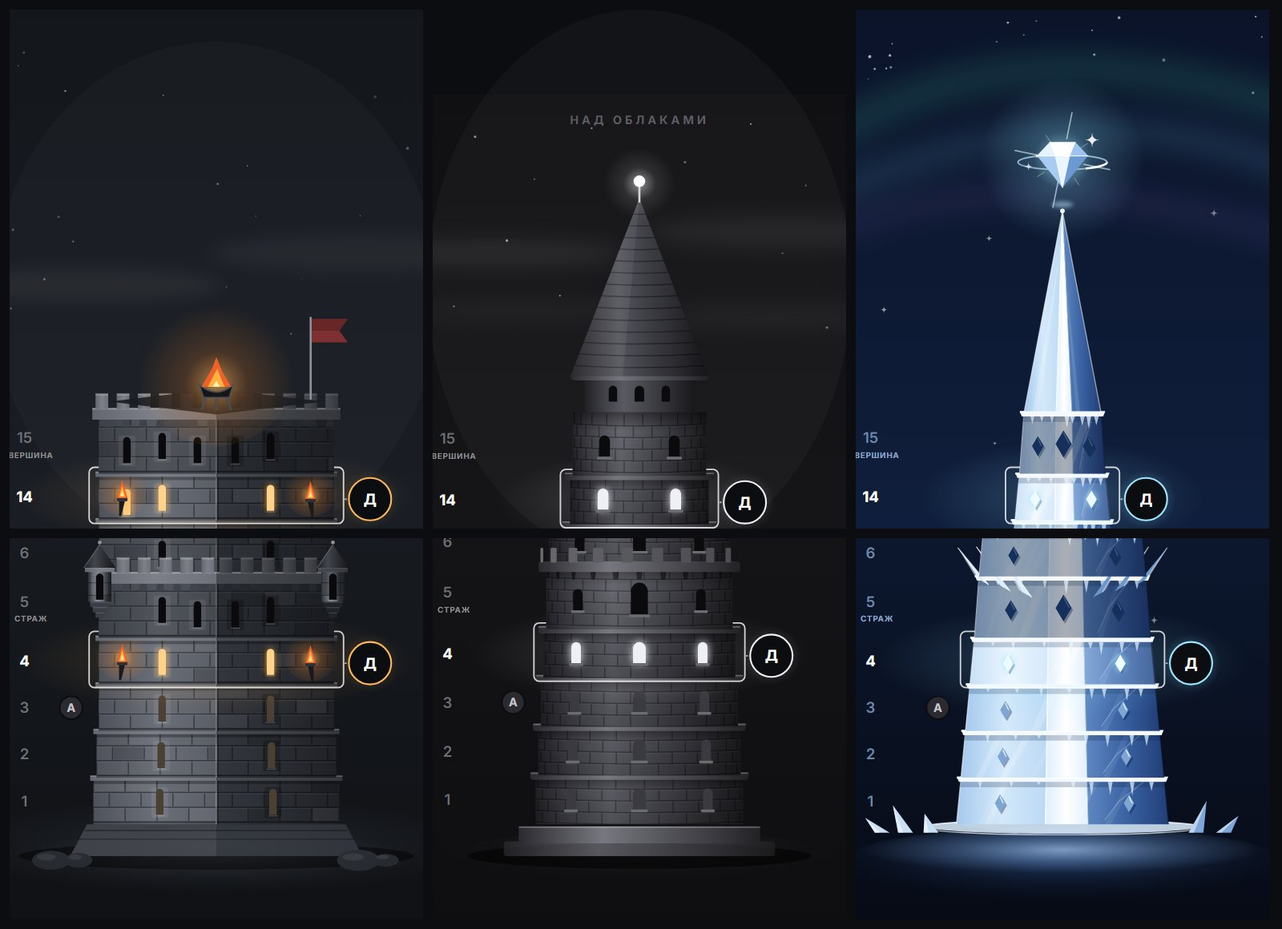
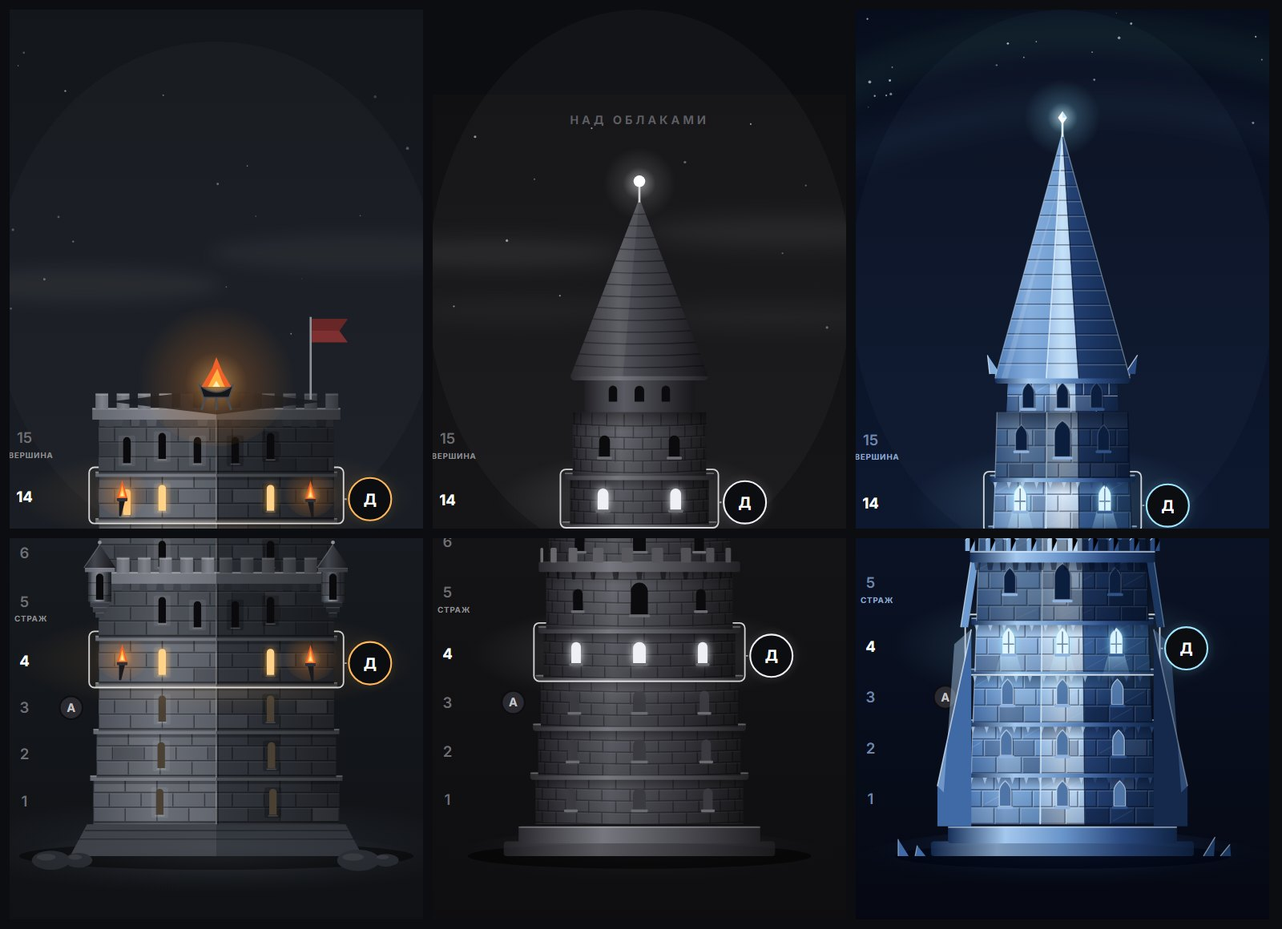
docs: spire towers v2 — Diamond rebuilt as a crystal keep (faceted masonry, glowing lancets, buttresses, prism crown + spire)
Owner verdict: Granite/Onyx accepted, ice needle rejected (flat cone, floating clipart gem). Diamond is now a real octagonal building of cut crystal: bevelled blocks with refractions and navy inner shadows, lancet windows lit from inside with light smear, crystal buttresses at the base and guard corners, prism merlons, drum with a crown of prisms and a tall faceted spire with a glowing core; taller and slimmer than Onyx. Previews re-shot.

Governance-ID: TG-F32D67F910B6

diff --git a/docs/design/v2-app/spire-leagues.html b/docs/design/v2-app/spire-leagues.html
@@ -73,7 +73,7 @@
 <body>
 <div class="page">
   <h1 class="page-h1">Башни лиг Шпиля · v2</h1>
-  <p class="page-lead">Двенадцать лиг-камней (Гранит … Алмаз). У каждой лиги — своя архитектура со своей геометрией: силуэт, материал, свет, атмосфера. Эталон качества — чёрная башня приложения, она закреплена за лигой «Оникс». Первый круг: <b>Гранит</b> (крепостной донжон), <b>Оникс</b> (эталон), <b>Алмаз</b> (ледяная игла с парящим бриллиантом). Остальные девять — после утверждения. Всё — SVG кодом, без картинок; каждая башня — параметры и набор форм поверх модели этажей (15 этажей, Страж каждые 5).</p>
+  <p class="page-lead">Двенадцать лиг-камней (Гранит … Алмаз). У каждой лиги — своя архитектура со своей геометрией: силуэт, материал, свет, атмосфера. Эталон качества — чёрная башня приложения, она закреплена за лигой «Оникс». Первый круг: <b>Гранит</b> (крепостной донжон), <b>Оникс</b> (эталон), <b>Алмаз</b> (хрустальная башня: огранённая кладка, стрельчатые окна со светом изнутри, кристаллический венец и шпиль). Остальные девять — после утверждения. Всё — SVG кодом, без картинок; каждая башня — параметры и набор форм поверх модели этажей (15 этажей, Страж каждые 5).</p>
   <div class="lg-bar">
     <div class="lg-arrow" id="prev" aria-label="Предыдущая лига">‹</div>
     <div class="lg-chips" id="chips"></div>
@@ -134,7 +134,7 @@ const LEAGUES = [
   { id: 'opal', ru: 'Опал', uk: 'Опал' },
   { id: 'topaz', ru: 'Топаз', uk: 'Топаз' },
   { id: 'obsidian', ru: 'Обсидиан', uk: 'Обсидіан' },
-  { id: 'diamond', ru: 'Алмаз', uk: 'Алмаз', arch: 'needle', ready: true, mat: 'ледяная огранённая игла: три грани с преломлениями, ярусы-кристаллы, фонари во льду, венцы шардов у Стражей, парящий бриллиант над остриём, сияние и лучи' },
+  { id: 'diamond', ru: 'Алмаз', uk: 'Алмаз', arch: 'crystal', ready: true, mat: 'хрустальная башня: восьмигранник углом к зрителю, огранённая кладка с преломлениями и тёмно-синими тенями, стрельчатые окна светятся изнутри, контрфорсы-кристаллы, зубцы-призмы у Стражей, барабан с кристаллическим венцом и высокий гранёный шпиль со светящейся сердцевиной' },
 ];
 LEAGUES.forEach((L, i) => { L.i = i; });
 const READY = LEAGUES.filter((L) => L.ready);
@@ -419,146 +419,162 @@ const CYL = {
   },
 };
 
-/* ===================== АРХЕТИП 3: ЛЕДЯНАЯ ИГЛА С ПАРЯЩИМ БРИЛЛИАНТОМ (Алмаз) ===================== */
-// зачем: высшая лига — не камень, а огранённый лёд. Силуэт — узкая игла, сужающаяся к острию (трапеции этажей сходятся в одну линию);
-// объём — три вертикальные грани (левая светлая, центральная — блик, правая в глубокой тени) с косыми преломлениями;
-// этажи — ярусы с яркими кромками льда и сосульками, фонари-ромбы во льду; Стражи — венцы шардов; над остриём парит бриллиант с кольцом и лучами.
-const NEEDLE = {
+/* ===================== АРХЕТИП 3: ХРУСТАЛЬНАЯ БАШНЯ (Алмаз) ===================== */
+// зачем (вердикт владельца 13.10 через координатора): первая «ледяная игла» — плоский конус с наклейками и клипарт-бриллиантом. Нужно ЗДАНИЕ,
+// как Гранит и Оникс (кладка, ярусы, окна, навершие), но из алмаза: огранённые блоки с преломлениями и глубиной, тёмно-синие внутренние тени
+// и холодные блики (не белая заливка), окна светятся изнутри, контрфорсы-кристаллы, навершие — кристаллический венец и шпиль, вписанные в архитектуру.
+// Силуэт выше и стройнее Оникса (вершина прогрессии), той же весомости: восьмигранник углом к зрителю — три видимые грани.
+const CRYST = {
   pal: {
-    sky: ['#0A1226', '#10203F', '#060A14'], accent: '#9FE6FF', num: '#FFFFFF', numDim: '#6F86A8', lab: '#8FA6C8',
-    edge: 'rgba(255,255,255,.72)', win: { lit: '#EAFBFF', past: '#7FA6D2', dark: '#15305C', glow: '#8FE4FF' },
-    shardL: '#DCEEFF', shardR: '#6B96CC', ledge: '#F3F9FF',
+    sky: ['#070C1A', '#0E1A33', '#050812'], accent: '#9FE6FF', num: '#FFFFFF', numDim: '#6F86A8', lab: '#8FA6C8',
+    win: { lit: '#DFF6FF', past: '#4F74A6', dark: '#0C1E3E', glow: '#8FE4FF' },
   },
-  taper: 8.5,
+  w0: 176, taper: 3.5, fh: 48, gh: 62,
   geom() {
-    const w0 = 200, fh = 44, gh = 58, topPad = 440, basePad = 110; let h = 0;
-    for (let f = 1; f <= FLOORS; f++) h += isGuard(f) ? gh : fh;
+    const topPad = 430, basePad = 100; let h = 0;
+    for (let f = 1; f <= FLOORS; f++) h += isGuard(f) ? this.gh : this.fh;
     const H = topPad + h + basePad; let yb = H - basePad; const floors = [];
-    for (let f = 1; f <= FLOORS; f++) { const hh = isGuard(f) ? gh : fh; const w = w0 - (f - 1) * this.taper, wt = w - this.taper; yb -= hh; floors.push({ f, y: yb, h: hh, w, wt, x0: CX - w / 2, xt0: CX - wt / 2 }); }
-    const top = floors[FLOORS - 1].y;
-    return { floors, H, base: H - basePad, top, apex: top - 190 };
+    for (let f = 1; f <= FLOORS; f++) { const hh = isGuard(f) ? this.gh : this.fh; const w = this.w0 - (f - 1) * this.taper, wt = w - this.taper; yb -= hh; floors.push({ f, y: yb, h: hh, w, wt, x0: CX - w / 2, xt0: CX - wt / 2 }); }
+    return { floors, H, base: H - basePad, top: floors[FLOORS - 1].y };
   },
   fx: (fl, k, top) => (top ? fl.xt0 + fl.wt * k : fl.x0 + fl.w * k),
-  facet(fl, k0, k1, fill, extra = '') { const yb = fl.y + fl.h; return poly([[this.fx(fl, k0, false), yb], [this.fx(fl, k1, false), yb], [this.fx(fl, k1, true), fl.y], [this.fx(fl, k0, true), fl.y]], fill, extra); },
+  fxm(fl, k) { return (this.fx(fl, k, false) + this.fx(fl, k, true)) / 2; },
+  facetPts(fl, k0, k1) { const yb = fl.y + fl.h; return [[this.fx(fl, k0, false), yb], [this.fx(fl, k1, false), yb], [this.fx(fl, k1, true), fl.y], [this.fx(fl, k0, true), fl.y]]; },
+  facet(fl, k0, k1, fill, extra = '') { return poly(this.facetPts(fl, k0, k1), fill, extra); },
   defs(p) {
     const lin = (id, cols, x2 = '1', y2 = '0') => `<linearGradient id="${p}${id}" x1="0" y1="0" x2="${x2}" y2="${y2}">${cols.map((c, i) => stp(c, i / (cols.length - 1))).join('')}</linearGradient>`;
-    return lin('L', ['#A6C9EE', '#D4E9FA', '#BBD9F4']) + lin('C', ['#DDEFFF', '#FFFFFF', '#E2F0FF']) + lin('R', ['#5E88C2', '#3A61A1', '#213F78'])
-      + lin('Lm', ['#C4DEF6', '#EAF5FF', '#D2E7FA']) + lin('Rm', ['#7CA3D6', '#527BB8', '#365A95'])
+    return lin('L', ['#4F7CB8', '#86AEDD', '#6F9CD0']) + lin('C', ['#9CC0E8', '#C6DDF5', '#A9CBEE']) + lin('R', ['#27457A', '#1A3460', '#122646'])
+      + lin('Lm', ['#6E9AD0', '#A6C8EC', '#8DB4E2']) + lin('Cm', ['#B9D5F2', '#DCEBFA', '#C4DCF4']) + lin('Rm', ['#365A96', '#27477E', '#1C375F'])
+      + lin('corn', ['#17305A', '#A4C8EE', '#6A95CA', '#2B4B82', '#102444']) + lin('spire', ['#24427A', '#86AEDD', '#C6DDF5', '#5F8BC4', '#17305A'])
       + lin('sky', this.pal.sky, '0', '1')
-      + `<radialGradient id="${p}glow" cx=".5" cy=".5" r=".5">${stp('#BFF0FF', 0, 0.75)}${stp('#8FE4FF', 0.35, 0.22)}${stp('#8FE4FF', 1, 0)}</radialGradient>`
-      + `<radialGradient id="${p}halo" cx=".5" cy=".5" r=".5">${stp('#8FE4FF', 0, 0.22)}${stp('#8FE4FF', 1, 0)}</radialGradient>`
-      + `<radialGradient id="${p}ground" cx=".5" cy=".25" r=".5">${stp('#2C4B7E', 0)}${stp('#0B1426', 1, 0)}</radialGradient>`
-      + `<radialGradient id="${p}ice" cx=".5" cy=".5" r=".5">${stp('#BFDCF7', 0, 0.55)}${stp('#7FA9DC', 0.6, 0.22)}${stp('#7FA9DC', 1, 0)}</radialGradient>`
-      + `<filter id="${p}wg" x="-150%" y="-150%" width="400%" height="400%"><feGaussianBlur stdDeviation="3.4"/></filter><filter id="${p}bl" x="-40%" y="-40%" width="180%" height="180%"><feGaussianBlur stdDeviation="12"/></filter><filter id="${p}bl2" x="-40%" y="-40%" width="180%" height="180%"><feGaussianBlur stdDeviation="2.2"/></filter>`;
+      + `<linearGradient id="${p}under" x1="0" y1="0" x2="0" y2="1">${stp('#040B1E', 0, 0.5)}${stp('#040B1E', 0.3, 0)}${stp('#040B1E', 1, 0.18)}</linearGradient>`
+      + `<linearGradient id="${p}smear" x1="0" y1="0" x2="0" y2="1">${stp('#BFEAFF', 0, 0.45)}${stp('#BFEAFF', 1, 0)}</linearGradient>`
+      + `<linearGradient id="${p}core" x1="0" y1="0" x2="0" y2="1">${stp('#DFF6FF', 0, 0.9)}${stp('#8FE4FF', 1, 0.05)}</linearGradient>`
+      + `<radialGradient id="${p}glow" cx=".5" cy=".5" r=".5">${stp('#DFF6FF', 0, 0.7)}${stp('#8FE4FF', 0.4, 0.18)}${stp('#8FE4FF', 1, 0)}</radialGradient>`
+      + `<radialGradient id="${p}litfloor" cx=".5" cy=".5" r=".5">${stp('#8FE4FF', 0, 0.2)}${stp('#8FE4FF', 1, 0)}</radialGradient>`
+      + `<radialGradient id="${p}ground" cx=".5" cy=".2" r=".5">${stp('#1A2F58', 0)}${stp('#070C1A', 1, 0)}</radialGradient>`
+      + `<filter id="${p}wg" x="-150%" y="-150%" width="400%" height="400%"><feGaussianBlur stdDeviation="3.6"/></filter><filter id="${p}bl" x="-40%" y="-40%" width="180%" height="180%"><feGaussianBlur stdDeviation="12"/></filter><filter id="${p}bl2" x="-40%" y="-40%" width="180%" height="180%"><feGaussianBlur stdDeviation="3"/></filter>`;
   },
-  streaks(fl, seed, clip) {
-    const rd = rnd(seed); let out = ''; const yb = fl.y + fl.h;
-    for (let i = 0; i < 3; i++) { const k = 0.05 + rd() * 0.5; const x = this.fx(fl, k, false), xt = this.fx(fl, k, true) + 14 + rd() * 10; const ww = 4 + rd() * 5; out += poly([[x, yb], [x + ww, yb], [xt + ww, fl.y], [xt, fl.y]], `rgba(255,255,255,${f1(0.1 + rd() * 0.14)})`); }
-    out += poly([[this.fx(fl, 0.7, false), yb], [this.fx(fl, 0.73, false), yb], [this.fx(fl, 0.86, true), fl.y], [this.fx(fl, 0.83, true), fl.y]], 'rgba(255,255,255,.08)');
-    return `<g clip-path="url(#${clip})">${out}</g>`;
+  // огранённая кладка грани: курсы 16 px, блоки 24 px со смещением; у каждого блока светлая кромка сверху-слева и тёмная снизу-справа (огранка),
+  // часть блоков — преломление (светлее) или внутренняя тень (темнее). Три пути на грань, а не три на блок.
+  blocks(fl, k0, k1, seed, clip, side) {
+    const rd = rnd(seed); const { y, h } = fl;
+    const xa = Math.min(this.fx(fl, k0, false), this.fx(fl, k0, true)) - 24, xb = Math.max(this.fx(fl, k1, false), this.fx(fl, k1, true)) + 24;
+    const hl = side > 0 ? 0.16 : side < 0 ? 0.34 : 0.5, dk = side > 0 ? 0.55 : 0.4;
+    let pl = '', pd = '', pr = '', tint = ''; const ch = 16, bw = 24; let row = 0;
+    for (let yy = y; yy < y + h - 2; yy += ch, row++) {
+      const hh = Math.min(ch, y + h - yy); const off = (row % 2) * (bw / 2);
+      for (let xx = xa + off; xx < xb; xx += bw) {
+        pl += `M${f1(xx + 0.6)} ${f1(yy + hh - 0.6)}V${f1(yy + 0.6)}H${f1(xx + bw - 0.6)}`;
+        pd += `M${f1(xx + bw - 0.6)} ${f1(yy + 0.6)}V${f1(yy + hh - 0.6)}H${f1(xx + 0.6)}`;
+        const r = rd();
+        if (r < 0.16) tint += `<rect x="${f1(xx + 1)}" y="${f1(yy + 1)}" width="${bw - 2}" height="${f1(hh - 2)}" fill="rgba(215,238,255,${side > 0 ? 0.1 : 0.22})"/>`;
+        else if (r > 0.86) tint += `<rect x="${f1(xx + 1)}" y="${f1(yy + 1)}" width="${bw - 2}" height="${f1(hh - 2)}" fill="rgba(4,12,34,${side > 0 ? 0.32 : 0.2})"/>`;
+        if (r > 0.3 && r < 0.5) pr += `M${f1(xx + 3)} ${f1(yy + hh - 3)}L${f1(xx + bw - 3)} ${f1(yy + 3)}`;
+      }
+    }
+    return `<g clip-path="url(#${clip})">${tint}<path d="${pd}" stroke="rgba(4,12,34,${dk})" stroke-width="1.3" fill="none"/><path d="${pl}" stroke="rgba(230,244,255,${hl})" stroke-width="1" fill="none"/><path d="${pr}" stroke="rgba(230,244,255,${side > 0 ? 0.1 : 0.2})" stroke-width="0.9" fill="none"/></g>`;
   },
-  lantern(x, y, tone, p, s = 1) {
-    const W = this.pal.win; const w = 10 * s, h = 17 * s;
-    const d = `M${f1(x)} ${f1(y - h / 2)}L${f1(x + w / 2)} ${f1(y)}L${f1(x)} ${f1(y + h / 2)}L${f1(x - w / 2)} ${f1(y)}Z`;
-    let out = `<path d="${d}" transform="translate(1.5 2)" fill="rgba(0,20,60,.35)"/>`;
-    if (tone === 'lit') out += `<path d="${d}" fill="${W.glow}" filter="url(#${p}wg)"/>`;
+  // стрельчатое окно: светится изнутри (ореол + световой мазок по кладке под окном), тусклое у пройденных, тёмное впереди
+  lancet(x, y, tone, p, big, side) {
+    const W = this.pal.win; const w = big ? 15 : 11, h = big ? 30 : 20, hw = w / 2;
+    const d = `M${f1(x - hw)} ${f1(y + h)}V${f1(y + hw)}Q${f1(x - hw)} ${f1(y + 1)} ${f1(x)} ${f1(y - 4)}Q${f1(x + hw)} ${f1(y + 1)} ${f1(x + hw)} ${f1(y + hw)}V${f1(y + h)}Z`;
+    let out = `<path d="${d}" transform="translate(1.2 1.2)" fill="rgba(4,12,34,.5)"/>`;
+    if (tone === 'lit') out += `<path d="${d}" fill="${W.glow}" filter="url(#${p}wg)"/>${poly([[x - hw - 2, y + h], [x + hw + 2, y + h], [x + hw + 9, y + h + 26], [x - hw - 9, y + h + 26]], `url(#${p}smear)`)}`;
     out += `<path d="${d}" fill="${W[tone]}"/>`;
-    if (tone !== 'dark') out += `<path d="M${f1(x)} ${f1(y - h / 2 + 2)}L${f1(x + w / 2 - 2)} ${f1(y)}" stroke="rgba(255,255,255,.85)" stroke-width="1"/>`;
-    else out += `<path d="M${f1(x)} ${f1(y - h / 2 + 2)}L${f1(x + w / 2 - 2)} ${f1(y)}" stroke="rgba(255,255,255,.22)" stroke-width="1"/>`;
+    if (tone === 'lit') out += `<path d="M${f1(x)} ${f1(y - 1)}V${f1(y + h)}M${f1(x - hw)} ${f1(y + h * 0.55)}H${f1(x + hw)}" stroke="rgba(10,40,90,.55)" stroke-width="1.2"/>`;
+    out += `<path d="${d}" fill="none" stroke="rgba(230,244,255,${tone === 'dark' ? (side > 0 ? 0.18 : 0.3) : 0.6})" stroke-width="1"/>`;
+    out += `<rect x="${f1(x - hw - 2)}" y="${f1(y + h)}" width="${f1(w + 4)}" height="2.6" rx="1" fill="${side > 0 ? '#2F5288' : '#8FB3DE'}"/>`;
     return out;
   },
-  ledge(fl, seed) {
-    const { y, xt0, wt } = fl; const rd = rnd(seed); let out = '';
-    out += poly([[xt0 - 4, y - 1], [xt0 + wt + 4, y - 1], [xt0 + wt + 2, y + 4], [xt0 - 2, y + 4]], this.pal.ledge);
-    out += poly([[xt0 - 4, y - 1], [xt0 + wt * 0.6, y - 1], [xt0 + wt * 0.6, y + 1], [xt0 - 4, y + 1]], 'rgba(255,255,255,.9)');
-    out += poly([[xt0 - 2, y + 4], [xt0 + wt + 2, y + 4], [this.fx(fl, 1, true) + 1, y + 9], [this.fx(fl, 0, true) - 1, y + 9]], 'rgba(10,30,70,.22)');
-    for (let i = 0; i < 5; i++) { const k = 0.52 + i * 0.1 + rd() * 0.04; const x = xt0 + wt * k; const len = 5 + rd() * 9; out += poly([[x - 2.2, y + 4], [x + 2.2, y + 4], [x, y + 4 + len]], 'rgba(225,242,255,.72)'); }
-    for (let i = 0; i < 3; i++) { const k = 0.08 + i * 0.14 + rd() * 0.04; const x = xt0 + wt * k; const len = 3 + rd() * 5; out += poly([[x - 1.8, y + 4], [x + 1.8, y + 4], [x, y + 4 + len]], 'rgba(255,255,255,.55)'); }
+  cornice(fl, p) { // карниз-кольцо с огранкой и мелкими висячими кристаллами
+    const { y, xt0, wt } = fl; let out = `<rect x="${f1(xt0 - 5)}" y="${f1(y - 3)}" width="${f1(wt + 10)}" height="7" rx="2" fill="url(#${p}corn)"/><rect x="${f1(xt0 - 5)}" y="${f1(y - 3)}" width="${f1(wt + 10)}" height="1.4" rx=".7" fill="rgba(230,244,255,.55)"/>`;
+    for (let xx = xt0 - 2; xx < xt0 + wt; xx += 13) { const k = (xx - xt0) / wt; out += poly([[xx, y + 4], [xx + 4, y + 4], [xx + 2, y + 10]], k < 0.62 ? 'rgba(200,228,255,.6)' : 'rgba(40,70,120,.8)'); }
     return out;
   },
-  shardCrown(fl) {
-    const { y, xt0, wt } = fl; const P = this.pal; let out = '';
-    for (let i = 0; i < 3; i++) { const bx = xt0 + i * wt * 0.13, by = y + 3 + i * 6; const tip = [bx - 20 - i * 3, by - 30 - i * 7]; out += poly([[bx, by], [bx + 9, by + 5], tip], P.shardL) + poly([[bx, by], tip, [bx - 3, by - 2]], 'rgba(255,255,255,.55)'); out += `<line x1="${f1(bx + 9)}" y1="${f1(by + 5)}" x2="${f1(tip[0])}" y2="${f1(tip[1])}" stroke="rgba(255,255,255,.7)" stroke-width="1"/>`; }
-    for (let i = 0; i < 3; i++) { const bx = xt0 + wt - i * wt * 0.13, by = y + 3 + i * 6; const tip = [bx + 20 + i * 3, by - 30 - i * 7]; out += poly([[bx, by], [bx - 9, by + 5], tip], P.shardR) + poly([[bx, by], tip, [bx + 3, by - 2]], 'rgba(255,255,255,.28)'); out += `<line x1="${f1(bx)}" y1="${f1(by)}" x2="${f1(tip[0])}" y2="${f1(tip[1])}" stroke="rgba(255,255,255,.55)" stroke-width="1"/>`; }
-    out += poly([[CX - 7, y - 1], [CX + 7, y - 1], [CX + 1.5, y - 34]], '#EEF7FF') + poly([[CX - 7, y - 1], [CX + 1.5, y - 34], [CX - 2, y - 1]], '#FFFFFF');
-    out += poly([[CX - 20, y - 1], [CX - 10, y - 1], [CX - 16, y - 22]], '#D5E8FB') + poly([[CX + 10, y - 1], [CX + 20, y - 1], [CX + 13, y - 22]], '#9DBEE6');
+  parapet(fl, p) { // Страж: кольцо пошире, зубцы-призмы с остриём (тон по положению), кронштейны-машикули
+    const { y, xt0, wt } = fl; let out = `<rect x="${f1(xt0 - 8)}" y="${f1(y - 4)}" width="${f1(wt + 16)}" height="11" rx="2" fill="url(#${p}corn)"/><rect x="${f1(xt0 - 8)}" y="${f1(y - 4)}" width="${f1(wt + 16)}" height="1.6" fill="rgba(230,244,255,.6)"/>`;
+    const n = 9; for (let i = 0; i <= n; i++) { const k = i / n; const x = xt0 - 8 + (wt + 16) * k; const mw = 9, mh = 15; const lt = k < 0.4 ? '#86AEDD' : k < 0.64 ? '#B9D5F2' : '#2A4A80'; out += poly([[x - mw / 2, y - 4], [x - mw / 2, y - 4 - mh + 5], [x, y - 4 - mh], [x + mw / 2, y - 4 - mh + 5], [x + mw / 2, y - 4]], lt) + `<path d="M${f1(x - mw / 2)} ${f1(y - 4 - mh + 5)}L${f1(x)} ${f1(y - 4 - mh)}" stroke="rgba(230,244,255,.7)" stroke-width="1"/><path d="M${f1(x + mw / 2)} ${f1(y - 4 - mh + 5)}L${f1(x)} ${f1(y - 4 - mh)}V${f1(y - 4)}" stroke="rgba(4,12,34,.4)" stroke-width="1"/>`; }
+    for (let xx = xt0 - 4; xx < xt0 + wt; xx += 12) out += `<path d="M${f1(xx)} ${f1(y + 7)}h6l-1 7h-4Z" fill="rgba(4,12,34,.5)"/>`;
+    return out;
+  },
+  // контрфорсы-кристаллы: у основания — большие наклонные плиты с огранкой; у Стражей 5 и 10 — угловые распорки
+  buttresses(G, p) {
+    const b = G.floors[0], t4 = G.floors[3]; const base = G.base; let out = '';
+    const slab = (x, dir, top, fill, edge) => { const pts = [[x + dir * 30, base + 2], [x + dir * 30, base - 36], [x - dir * 2, top], [x - dir * 2, base + 2]]; return poly(pts, fill) + poly([[x + dir * 30, base - 36], [x - dir * 2, top], [x + dir * 14, top + 14], [x + dir * 24, base - 30]], edge) + `<path d="M${f1(x + dir * 30)} ${f1(base - 36)}L${f1(x - dir * 2)} ${f1(top)}" stroke="rgba(230,244,255,${dir < 0 ? 0.7 : 0.35})" stroke-width="1.2"/>`; };
+    out += slab(b.x0, -1, t4.y + 8, '#3F6AA6', 'rgba(170,205,240,.45)') + slab(b.x0 + b.w, 1, t4.y + 8, '#15294C', 'rgba(90,130,185,.4)');
+    G.floors.filter((fl) => isGuard(fl.f) && fl.f < FLOORS).forEach((fl) => {
+      const yb = fl.y + fl.h; out += poly([[fl.x0 - 15, yb + 6], [fl.x0 - 8, yb + 6], [fl.xt0 + 1, fl.y - 2], [fl.xt0 - 6, fl.y - 2]], '#6F9CD0') + `<path d="M${f1(fl.x0 - 15)} ${f1(yb + 6)}L${f1(fl.xt0 - 6)} ${f1(fl.y - 2)}" stroke="rgba(230,244,255,.7)" stroke-width="1"/>`;
+      const x1 = fl.x0 + fl.w, xt1 = fl.xt0 + fl.wt; out += poly([[x1 + 15, yb + 6], [x1 + 8, yb + 6], [xt1 - 1, fl.y - 2], [xt1 + 6, fl.y - 2]], '#1C375F') + `<path d="M${f1(x1 + 15)} ${f1(yb + 6)}L${f1(xt1 + 6)} ${f1(fl.y - 2)}" stroke="rgba(150,190,235,.5)" stroke-width="1"/>`;
+    });
     return out;
   },
   floor(fl, st, o, p) {
     const { f, y, h, w, x0 } = fl; const P = this.pal; const g = isGuard(f); const yb = y + h;
-    const tone = st === 'mine' ? 'lit' : st === 'passed' ? 'past' : 'dark'; const mine = st === 'mine';
-    const clip = `${p}c${f}`;
-    let out = `<g class="fl" data-f="${f}" style="cursor:pointer"><clipPath id="${clip}">${poly([[this.fx(fl, 0, false) - 1, yb + 1], [this.fx(fl, 1, false) + 1, yb + 1], [this.fx(fl, 1, true) + 1, y - 1], [this.fx(fl, 0, true) - 1, y - 1]], '#000')}</clipPath>`;
-    if (mine) out += `<ellipse cx="${CX}" cy="${f1(y + h / 2)}" rx="${f1(w / 2 + 90)}" ry="${f1(h * 1.2)}" fill="url(#${p}halo)"/>`;
-    out += this.facet(fl, 0, 0.42, `url(#${p}${mine ? 'Lm' : 'L'})`) + this.facet(fl, 0.42, 0.62, `url(#${p}C)`) + this.facet(fl, 0.62, 1, `url(#${p}${mine ? 'Rm' : 'R'})`);
-    out += this.streaks(fl, f * 97 + 11, clip);
-    // внутренние трещины-преломления в правой грани
-    out += `<path d="M${f1(this.fx(fl, 0.7, false))} ${f1(yb - 4)}L${f1(this.fx(fl, 0.78, true))} ${f1(y + h * 0.5)}L${f1(this.fx(fl, 0.9, true))} ${f1(y + 4)}" stroke="rgba(190,220,255,.35)" stroke-width="1" fill="none"/>`;
-    // рёбра граней
-    const edge = (k, col, wdt) => `<line x1="${f1(this.fx(fl, k, false))}" y1="${f1(yb)}" x2="${f1(this.fx(fl, k, true))}" y2="${f1(y)}" stroke="${col}" stroke-width="${wdt}"/>`;
-    out += edge(0.42, 'rgba(255,255,255,.9)', 1.2) + edge(0.62, 'rgba(255,255,255,.55)', 1) + edge(0, 'rgba(255,255,255,.6)', 1) + edge(1, 'rgba(10,30,70,.5)', 1);
-    if (st === 'ahead') out += poly([[this.fx(fl, 0, false), yb], [this.fx(fl, 1, false), yb], [this.fx(fl, 1, true), y], [this.fx(fl, 0, true), y]], P.sky[0], 'opacity=".34"');
-    out += this.ledge(fl, f * 53 + 5);
-    const ly = y + h * 0.55;
-    out += this.lantern(this.fx(fl, 0.2, false) + (this.fx(fl, 0.2, true) - this.fx(fl, 0.2, false)) * 0.45, ly, tone, p, g ? 1.1 : 1);
-    out += this.lantern(this.fx(fl, 0.82, false) + (this.fx(fl, 0.82, true) - this.fx(fl, 0.82, false)) * 0.45, ly, tone, p, g ? 1.1 : 1);
-    if (g) out += this.lantern(CX + 1, ly - 2, tone, p, 1.5);
-    if (mine) out += `<g clip-path="url(#${clip})"><rect x="${f1(x0 - 2)}" y="${f1(y)}" width="${f1(w + 4)}" height="${f1(h)}" fill="rgba(255,255,255,.08)"/>${poly([[this.fx(fl, 0.46, false), yb], [this.fx(fl, 0.52, false), yb], [this.fx(fl, 0.62, true), y], [this.fx(fl, 0.56, true), y]], 'rgba(255,255,255,.35)')}</g>`;
-    if (g && f < FLOORS) out += this.shardCrown(fl);
+    const tone = st === 'mine' ? 'lit' : st === 'passed' ? 'past' : 'dark'; const mine = st === 'mine'; const m = mine ? 'm' : '';
+    const cl = (i) => `${p}c${f}f${i}`; const K = [[0, 0.38], [0.38, 0.62], [0.62, 1]];
+    let out = `<g class="fl" data-f="${f}" style="cursor:pointer">${K.map((kk, i) => `<clipPath id="${cl(i)}">${poly(this.facetPts(fl, kk[0], kk[1]), '#000')}</clipPath>`).join('')}`;
+    if (mine) out += `<ellipse cx="${CX}" cy="${f1(y + h / 2)}" rx="${f1(w / 2 + 80)}" ry="${f1(h * 1.15)}" fill="url(#${p}litfloor)"/>`;
+    out += this.facet(fl, 0, 0.38, `url(#${p}L${m})`) + this.facet(fl, 0.38, 0.62, `url(#${p}C${m})`) + this.facet(fl, 0.62, 1, `url(#${p}R${m})`);
+    out += this.blocks(fl, 0, 0.38, f * 131 + 7, cl(0), -1) + this.blocks(fl, 0.38, 0.62, f * 173 + 3, cl(1), 0) + this.blocks(fl, 0.62, 1, f * 197 + 5, cl(2), 1);
+    out += poly(this.facetPts(fl, 0, 1), `url(#${p}under)`);
+    const edge = (k, col, wd) => `<line x1="${f1(this.fx(fl, k, false))}" y1="${f1(yb)}" x2="${f1(this.fx(fl, k, true))}" y2="${f1(y)}" stroke="${col}" stroke-width="${wd}"/>`;
+    out += edge(0.38, 'rgba(230,244,255,.75)', 1.3) + edge(0.62, 'rgba(4,12,34,.55)', 1.2) + edge(0, 'rgba(230,244,255,.45)', 1) + edge(1, 'rgba(4,12,34,.6)', 1);
+    if (st === 'ahead') out += poly(this.facetPts(fl, 0, 1), P.sky[0], 'opacity=".3"');
+    const wy = y + (g ? 20 : 11) - (g ? 4 : 0);
+    out += this.lancet(this.fxm(fl, 0.19), wy, tone, p, false, -1);
+    if (f < 12 || g) out += this.lancet(this.fxm(fl, 0.5), wy - (g ? 4 : 0), tone, p, g, 0);
+    out += this.lancet(this.fxm(fl, 0.81), wy, tone, p, false, 1);
+    if (mine) out += `<g clip-path="url(#${cl(2)})"><rect x="${f1(x0)}" y="${f1(y)}" width="${f1(w)}" height="${f1(h)}" fill="rgba(143,228,255,.08)"/></g>`;
+    if (!g) out += this.cornice(fl, p);
     out += rivalsSvg(fl, x0) + floorLabelSvg(fl, mine, o.clean ? '' : isSummit(f) ? 'ВЕРШИНА' : g ? 'СТРАЖ' : '', P);
-    if (f === o.selected) out += `<rect x="${f1(x0 - 9)}" y="${f1(y - (g ? 36 : 6))}" width="${f1(w + 18)}" height="${f1(h + (g ? 39 : 9))}" rx="5" fill="none" stroke="rgba(255,255,255,.8)" stroke-width="1.4"/>`;
+    if (f === o.selected) out += `<rect x="${f1(x0 - 9)}" y="${f1(y - (g ? 22 : 6))}" width="${f1(w + 18)}" height="${f1(h + (g ? 25 : 9))}" rx="5" fill="none" stroke="rgba(255,255,255,.8)" stroke-width="1.4"/>`;
     out += `<rect x="0" y="${f1(y - 4)}" width="${TW}" height="${f1(h + 4)}" fill="transparent"/></g>`;
     return out;
   },
-  sparkle(x, y, r, col = '#FFFFFF', op = 0.9) { return `<path d="M${f1(x)} ${f1(y - r)}Q${f1(x)} ${f1(y)} ${f1(x + r)} ${f1(y)}Q${f1(x)} ${f1(y)} ${f1(x)} ${f1(y + r)}Q${f1(x)} ${f1(y)} ${f1(x - r)} ${f1(y)}Q${f1(x)} ${f1(y)} ${f1(x)} ${f1(y - r)}Z" fill="${col}" opacity="${op}"/>`; },
+  after(G, o, p) { return this.buttresses(G, p) + G.floors.filter((fl) => isGuard(fl.f) && fl.f < FLOORS).map((fl) => this.parapet(fl, p)).join(''); },
+  // навершие: восьмигранный барабан с окнами, кристаллический венец из призм, высокий гранёный шпиль со светящейся сердцевиной, навершие-фонарь
   crown(G, o, p) {
-    const t = G.floors[FLOORS - 1]; const y = t.y, apex = G.apex; const sm = o.summit; const P = this.pal;
-    const xa = t.xt0, xb = t.xt0 + t.wt; const kA = xa + t.wt * 0.42, kB = xa + t.wt * 0.62; let out = '';
-    // остриё: три грани сходятся в точку
-    out += poly([[xa, y], [kA, y], [CX, apex]], `url(#${p}L)`) + poly([[kA, y], [kB, y], [CX, apex]], `url(#${p}C)`) + poly([[kB, y], [xb, y], [CX, apex]], `url(#${p}R)`);
-    out += poly([[xa + 8, y], [xa + 14, y], [CX - 1, apex + 30]], 'rgba(255,255,255,.22)') + poly([[kB + 4, y], [kB + 8, y], [CX + 1, apex + 40]], 'rgba(255,255,255,.12)');
-    out += `<path d="M${f1(kA)} ${y}L${CX} ${f1(apex)}" stroke="rgba(255,255,255,.9)" stroke-width="1.2"/><path d="M${f1(kB)} ${y}L${CX} ${f1(apex)}" stroke="rgba(255,255,255,.5)" stroke-width="1"/><path d="M${f1(xa)} ${y}L${CX} ${f1(apex)}L${f1(xb)} ${y}" stroke="rgba(255,255,255,.55)" stroke-width="1" fill="none"/>`;
-    out += poly([[xa - 4, y - 1], [xb + 4, y - 1], [xb + 2, y + 4], [xa - 2, y + 4]], P.ledge);
-    out += `<circle cx="${CX}" cy="${f1(apex)}" r="2.2" fill="#FFFFFF"/>`;
-    // парящий бриллиант
-    const gy = apex - 52; const s = sm ? 1.3 : 1; const gw = 24 * s, ch = 13 * s, pv = 30 * s, tw = 12 * s;
-    out += `<circle cx="${CX}" cy="${f1(gy + 4)}" r="${sm ? 130 : 78}" fill="url(#${p}glow)"/>`;
-    // лучи
-    for (let i = 0; i < 8; i++) { const a = -Math.PI / 2 + i * Math.PI / 4 + 0.2; const L = (sm ? 70 : 46) * (i % 2 ? 0.62 : 1); out += `<line x1="${f1(CX + Math.cos(a) * 20 * s)}" y1="${f1(gy + 4 + Math.sin(a) * 20 * s)}" x2="${f1(CX + Math.cos(a) * L)}" y2="${f1(gy + 4 + Math.sin(a) * L)}" stroke="#DFF6FF" stroke-width="${i % 2 ? 0.8 : 1.3}" opacity="${i % 2 ? 0.35 : 0.6}"/>`; }
-    // кольцо
-    out += `<ellipse cx="${CX}" cy="${f1(gy + 6)}" rx="${f1(gw + 18)}" ry="${f1(7 * s)}" fill="none" stroke="#BFEAFF" stroke-width="1.4" opacity=".7"/><ellipse cx="${CX}" cy="${f1(gy + 6)}" rx="${f1(gw + 18)}" ry="${f1(7 * s)}" fill="none" stroke="#FFFFFF" stroke-width="2.2" opacity=".9" stroke-dasharray="${f1(gw * 0.9)} ${f1(gw * 3.5)}"/>`;
-    // корона (верх) и павильон (низ)
-    out += poly([[CX - gw, gy], [CX - tw, gy - ch], [CX + tw, gy - ch], [CX + gw, gy]], '#CFE4FF');
-    out += poly([[CX - tw, gy - ch], [CX + tw, gy - ch], [CX + tw * 0.55, gy], [CX - tw * 0.55, gy]], '#FFFFFF');
-    out += poly([[CX - gw, gy], [CX - tw, gy - ch], [CX - tw * 0.55, gy]], '#E7F2FF') + poly([[CX + gw, gy], [CX + tw, gy - ch], [CX + tw * 0.55, gy]], '#9EC3F0');
-    out += poly([[CX - gw, gy], [CX - tw * 0.55, gy], [CX, gy + pv]], '#A9CCF3') + poly([[CX - tw * 0.55, gy], [CX + tw * 0.55, gy], [CX, gy + pv]], '#E9F5FF') + poly([[CX + tw * 0.55, gy], [CX + gw, gy], [CX, gy + pv]], '#6C98D4');
-    out += `<path d="M${f1(CX - gw)} ${f1(gy)}H${f1(CX + gw)}M${f1(CX - tw * 0.55)} ${f1(gy)}L${CX} ${f1(gy + pv)}L${f1(CX + tw * 0.55)} ${f1(gy)}M${f1(CX - tw)} ${f1(gy - ch)}L${f1(CX - tw * 0.55)} ${f1(gy)}M${f1(CX + tw)} ${f1(gy - ch)}L${f1(CX + tw * 0.55)} ${f1(gy)}" stroke="rgba(255,255,255,.85)" stroke-width="1" fill="none"/>`;
-    out += this.sparkle(CX + gw + 4, gy - ch - 2, 7 * s) + this.sparkle(CX - gw - 8, gy + 10, 4 * s, '#FFFFFF', 0.7);
-    // ореол под бриллиантом — он парит над остриём
-    out += `<ellipse cx="${CX}" cy="${f1(apex - 6)}" rx="10" ry="3" fill="#BFEAFF" opacity=".5" filter="url(#${p}bl2)"/>`;
-    if (sm) out += `<text x="${CX}" y="${f1(gy - ch - 46)}" font-size="11" font-weight="700" letter-spacing="3" fill="${P.accent}" text-anchor="middle">ВЕРШИНА НЕДЕЛИ</text>`;
+    const t = G.floors[FLOORS - 1]; const sm = o.summit; const P = this.pal; const W = P.win;
+    const dw = t.wt - 18, dx = CX - dw / 2, yd = t.y - 32, dh = 32; const rw = dw + 22, apex = yd - 232;
+    const dfl = { y: yd, h: dh, w: dw, wt: dw - 3, x0: dx, xt0: CX - (dw - 3) / 2 };
+    let out = `<clipPath id="${p}cdrum">${poly(this.facetPts(dfl, 0, 1), '#000')}</clipPath>` + this.facet(dfl, 0, 0.38, `url(#${p}L)`) + this.facet(dfl, 0.38, 0.62, `url(#${p}C)`) + this.facet(dfl, 0.62, 1, `url(#${p}R)`);
+    out += this.blocks(dfl, 0, 1, 991, `${p}cdrum`, 0) + poly(this.facetPts(dfl, 0, 1), `url(#${p}under)`);
+    [0.19, 0.5, 0.81].forEach((k, i) => { out += this.lancet(this.fxm(dfl, k), yd + 8, sm ? 'lit' : 'dark', p, false, i - 1).replace(/<polygon[^>]*smear[^>]*\/>/, ''); });
+    // венец: призмы по кольцу барабана (середина выше), тон по положению
+    out += `<rect x="${f1(dx - 11)}" y="${f1(yd - 4)}" width="${f1(dw + 22)}" height="9" rx="3" fill="url(#${p}corn)"/><rect x="${f1(dx - 11)}" y="${f1(yd - 4)}" width="${f1(dw + 22)}" height="1.5" fill="rgba(230,244,255,.6)"/>`;
+    const n = 8; for (let i = 0; i <= n; i++) { const k = i / n; const x = dx - 11 + (dw + 22) * k; const mh = 18 + (1 - Math.abs(k - 0.5) * 2) * 12; const lt = k < 0.4 ? '#86AEDD' : k < 0.64 ? '#C6DDF5' : '#2A4A80'; const lean = (k - 0.5) * 14; out += poly([[x - 5, yd - 4], [x + lean, yd - 4 - mh], [x + 5, yd - 4]], lt) + `<path d="M${f1(x - 5)} ${f1(yd - 4)}L${f1(x + lean)} ${f1(yd - 4 - mh)}" stroke="rgba(230,244,255,.75)" stroke-width="1"/>`; }
+    // шпиль: три грани, курсы огранки, светящаяся сердцевина
+    const xs = [CX - rw / 2, CX - rw / 2 + rw * 0.38, CX - rw / 2 + rw * 0.62, CX + rw / 2]; const cols = [`url(#${p}L)`, `url(#${p}C)`, `url(#${p}R)`];
+    for (let i = 0; i < 3; i++) out += poly([[xs[i], yd], [xs[i + 1], yd], [CX, apex]], cols[i]);
+    out += poly([[CX - 7, yd], [CX + 7, yd], [CX, apex + 10]], `url(#${p}core)`, `opacity="${sm ? 0.95 : 0.55}" filter="url(#${p}bl2)"`);
+    let crs = ''; for (let yy = yd - 14; yy > apex + 16; yy -= 14) { const k = (yd - yy) / (yd - apex); const hw = (rw / 2) * (1 - k); crs += `M${f1(CX - hw)} ${yy}L${f1(CX + hw)} ${yy}`; }
+    out += `<path d="${crs}" stroke="rgba(4,12,34,.42)" stroke-width="1.1"/><path d="${crs}" stroke="rgba(230,244,255,.22)" stroke-width="1" transform="translate(0 1.2)"/>`;
+    out += `<path d="M${f1(xs[1])} ${yd}L${CX} ${f1(apex)}" stroke="rgba(230,244,255,.8)" stroke-width="1.2"/><path d="M${f1(xs[2])} ${yd}L${CX} ${f1(apex)}" stroke="rgba(4,12,34,.5)" stroke-width="1.1"/><path d="M${f1(xs[0])} ${yd}L${CX} ${f1(apex)}L${f1(xs[3])} ${yd}" stroke="rgba(230,244,255,.4)" stroke-width="1" fill="none"/>`;
+    out += poly([[xs[0] + 6, yd], [xs[0] + 12, yd], [CX - 1, apex + 40]], 'rgba(230,244,255,.16)');
+    // навершие-фонарь: кристалл на игле, сияние
+    out += `<circle cx="${CX}" cy="${f1(apex - 14)}" r="${sm ? 92 : 36}" fill="url(#${p}glow)"/><line x1="${CX}" y1="${f1(apex + 4)}" x2="${CX}" y2="${f1(apex - 10)}" stroke="#DFF6FF" stroke-width="2"/>`;
+    const gs = sm ? 8 : 6; out += poly([[CX, apex - 14 - gs], [CX + gs * 0.7, apex - 14], [CX, apex - 14 + gs], [CX - gs * 0.7, apex - 14]], '#FFFFFF') + poly([[CX, apex - 14 - gs], [CX + gs * 0.7, apex - 14], [CX, apex - 14]], '#BFEAFF');
+    if (sm) out += `<text x="${CX}" y="${f1(apex - 64)}" font-size="11" font-weight="700" letter-spacing="3" fill="${P.accent}" text-anchor="middle">ВЕРШИНА НЕДЕЛИ</text>`;
     return out;
   },
   scene(G, o, p) {
-    const b = G.floors[0]; const rd = rnd(29); let out = ''; const top = G.apex - 80;
-    for (let k = 0; k < 26; k++) out += `<circle cx="${f1(rd() * TW)}" cy="${f1(rd() * (top - 20))}" r="${f1(0.5 + rd() * 1)}" fill="#E8F3FF" opacity="${f1(0.25 + rd() * 0.5)}"/>`;
-    // северное сияние
-    const ay = top - 40;
-    out += `<g filter="url(#${p}bl)"><path d="M-40 ${f1(ay + 60)}Q${CX - 40} ${f1(ay - 70)} 430 ${f1(ay + 30)}" stroke="#4FE3B0" stroke-width="34" fill="none" opacity="${o.summit ? 0.22 : 0.13}"/><path d="M-40 ${f1(ay + 110)}Q${CX + 30} ${f1(ay - 10)} 430 ${f1(ay + 90)}" stroke="#7FD4FF" stroke-width="28" fill="none" opacity="${o.summit ? 0.2 : 0.12}"/><path d="M-40 ${f1(ay + 150)}Q${CX - 60} ${f1(ay + 60)} 430 ${f1(ay + 150)}" stroke="#B48CFF" stroke-width="24" fill="none" opacity="${o.summit ? 0.16 : 0.09}"/></g>`;
-    for (let k = 0; k < 6; k++) out += this.sparkle(20 + rd() * 350, top + 40 + rd() * (G.base - top - 120), 2 + rd() * 3, '#FFFFFF', 0.25 + rd() * 0.3);
-    // земля: ледяное зеркало, кристаллы, отражение нижних этажей
-    out += `<ellipse cx="${CX}" cy="${f1(G.base + 50)}" rx="236" ry="48" fill="url(#${p}ground)"/><ellipse cx="${CX}" cy="${f1(G.base + 24)}" rx="${f1(b.w / 2 + 90)}" ry="22" fill="url(#${p}ice)"/>`;
-    out += `<clipPath id="${p}refl"><ellipse cx="${CX}" cy="${f1(G.base + 22)}" rx="${f1(b.w / 2 + 50)}" ry="30"/></clipPath><g clip-path="url(#${p}refl)" opacity=".2" transform="translate(0 ${f1(2 * G.base)}) scale(1 -1)">${G.floors.slice(0, 2).map((fl) => this.facet(fl, 0, 0.42, `url(#${p}L)`) + this.facet(fl, 0.42, 0.62, `url(#${p}C)`) + this.facet(fl, 0.62, 1, `url(#${p}R)`)).join('')}</g>`;
-    out += `<ellipse cx="${CX}" cy="${f1(G.base + 2)}" rx="${f1(b.w / 2 + 30)}" ry="7" fill="#DCEFFF" opacity=".85"/><ellipse cx="${CX}" cy="${f1(G.base + 3)}" rx="${f1(b.w / 2 + 30)}" ry="7" fill="none" stroke="#FFFFFF" stroke-width="1" opacity=".7"/>`;
-    [[b.x0 - 48, 26, -12], [b.x0 - 24, 18, -6], [b.x0 + b.w + 26, 30, 10], [b.x0 + b.w + 52, 16, 14], [b.x0 - 70, 14, -16]].forEach(([x, hh, lean]) => { out += poly([[x - 7, G.base + 8], [x + 7, G.base + 8], [x + lean, G.base + 8 - hh]], lean < 0 ? '#C9DFF6' : '#7FA6D8') + poly([[x - 7, G.base + 8], [x + lean, G.base + 8 - hh], [x - 2, G.base + 8]], 'rgba(255,255,255,.5)'); });
+    const b = G.floors[0]; const rd = rnd(29); let out = ''; const top = G.top - 300;
+    for (let k = 0; k < 24; k++) out += `<circle cx="${f1(rd() * TW)}" cy="${f1(rd() * (top + 40))}" r="${f1(0.5 + rd() * 0.9)}" fill="#E8F3FF" opacity="${f1(0.25 + rd() * 0.45)}"/>`;
+    out += `<g filter="url(#${p}bl)"><path d="M-40 ${f1(top + 10)}Q${CX - 40} ${f1(top - 110)} 430 ${f1(top - 20)}" stroke="#4FE3B0" stroke-width="30" fill="none" opacity="${o.summit ? 0.16 : 0.07}"/><path d="M-40 ${f1(top + 70)}Q${CX + 30} ${f1(top - 40)} 430 ${f1(top + 50)}" stroke="#7FD4FF" stroke-width="26" fill="none" opacity="${o.summit ? 0.14 : 0.06}"/></g>`;
+    out += `<ellipse cx="${CX}" cy="${f1(G.top - 120)}" rx="200" ry="260" fill="rgba(160,200,255,.03)"/>`;
+    // земля: тёмный лёд, плинт из двух колец, осколки
+    out += `<ellipse cx="${CX}" cy="${f1(G.base + 44)}" rx="214" ry="40" fill="url(#${p}ground)"/><ellipse cx="${CX}" cy="${f1(G.base + 30)}" rx="${f1(b.w / 2 + 70)}" ry="12" fill="rgba(0,4,16,.6)"/>`;
+    out += `<rect x="${f1(b.x0 - 36)}" y="${f1(G.base + 16)}" width="${f1(b.w + 72)}" height="14" rx="3" fill="url(#${p}corn)" opacity=".75"/><rect x="${f1(b.x0 - 20)}" y="${f1(G.base + 2)}" width="${f1(b.w + 40)}" height="16" rx="3" fill="url(#${p}corn)"/><rect x="${f1(b.x0 - 20)}" y="${f1(G.base + 2)}" width="${f1(b.w + 40)}" height="1.5" fill="rgba(230,244,255,.5)"/>`;
+    [[b.x0 - 62, 16, -5], [b.x0 - 46, 10, -3], [b.x0 + b.w + 50, 18, 6], [b.x0 + b.w + 66, 11, 4]].forEach(([x, hh, lean]) => { out += poly([[x - 5, G.base + 30], [x + 5, G.base + 30], [x + lean, G.base + 30 - hh]], lean < 0 ? '#3F6AA6' : '#1C375F') + `<path d="M${f1(x - 5)} ${f1(G.base + 30)}L${f1(x + lean)} ${f1(G.base + 30 - hh)}" stroke="rgba(230,244,255,.5)" stroke-width="1"/>`; });
     return out;
   },
 };
 
 /* ===================== СБОРКА БАШНИ ИЗ АРХЕТИПА ===================== */
 const { icon, phone, energy } = K;
-const ARCH = { fortress: FORT, cylinder: CYL, needle: NEEDLE };
-const ARCH_RU = { fortress: 'Крепостной донжон', cylinder: 'Круглая башня (эталон)', needle: 'Ледяная игла' };
+const ARCH = { fortress: FORT, cylinder: CYL, crystal: CRYST };
+const ARCH_RU = { fortress: 'Крепостной донжон', cylinder: 'Круглая башня (эталон)', crystal: 'Хрустальная башня' };
 // зачем: одна точка сборки — архетип даёт геометрию, defs, этаж, навершие, сцену; состояния этажей и маркер общие (как SpireTowerSvg: модель этажей отдельно от рисунка)
 function towerSvg(L, o = {}) {
   const A = ARCH[L.arch]; const G = A.geom(); const p = `t${++UID}_`;
@@ -609,7 +625,7 @@ function weekHtml() {
 const SPEC = {
   fortress: { geom: 'квадрат углом к зрителю: две грани (левая свет, правая тень), светлое ребро; w₁ 232 → 222, этаж 44 / Страж 58', mat: 'грубая кладка 14 px курсами со смещением, случайные светлые/тёмные блоки; сверху каждого этажа карниз-полка', floors: 'бойницы-арки 7×24 (2 на этаж, с 12-го — 3); «мой» — факелы по бокам + тёплое гало', guards: 'машикули на консолях, зубцы по обеим граням, угловая башенка на ребре с колпаком', top: 'площадка с зубцами, жаровня-маяк (огонь 36 / 56 на вершине), знамя; вершина недели — огонь на всю высоту', pal: 'гранит #4E525B–#6B6F78 / #33363D–#1F2126, огонь #FFB75A, небо #13161B' },
   cylinder: { geom: 'цилиндр: w 196 − (f−1)·5, этаж 46 / Страж 60, topPad 300, basePad 96 (= SpireTowerSvg)', mat: 'градиент cyl (6 стопов #1F1F23→#5A5A62→#18181B), кладка рядами 11 px с изгибом, швы по cos', floors: 'окна по окружности (ширина·cos t), углы −.72/0/.72 (с 12-го — 2), lit #EEF0F6 / past #3A3A40 / dark #0B0B0D', guards: 'зубцы 11·cos t с тоном по углу, машикули-кронштейны', top: 'барабан 34 + конус 168 с черепицей, навершие: шар 5.5 / 7, сияние r 34 / 90', pal: 'как в приложении: #1F1F23…#5A5A62, карниз cylCorn, небо #101013→#17171A' },
-  needle: { geom: 'игла: трапеции этажей, w 200 − (f−1)·8.5, сходятся в остриё (190 над 15-м); три грани 0–.42 / .42–.62 / .62–1', mat: 'лёд: грани L #A6C9EE–#D4E9FA, C #DDEFFF–#FFFFFF, R #5E88C2–#213F78; косые преломления, трещины', floors: 'кромка-полка #F3F9FF с сосульками; фонари-ромбы 10×17 (lit #EAFBFF + свечение #8FE4FF, past #7FA6D2, dark #15305C)', guards: 'венец шардов: по 3 с каждой стороны + центральный шпиль; центральный фонарь ×1.5', top: 'остриё из трёх граней, над ним парящий бриллиант (корона + павильон, 6 граней), кольцо, 8 лучей, сияние r 78 / 130', pal: 'небо #0A1226→#10203F, сияние #9FE6FF, северное сияние #4FE3B0 / #7FD4FF / #B48CFF' },
+  crystal: { geom: 'восьмигранник углом к зрителю (три грани 0–.38 / .38–.62 / .62–1): w 176 − (f−1)·3.5, этаж 48 / Страж 62 — выше и стройнее Оникса; контрфорсы у основания до 4-го этажа, угловые распорки у Стражей', mat: 'хрусталь: грани L #4F7CB8–#86AEDD, C #9CC0E8–#C6DDF5, R #27457A–#122646; огранённые блоки 24×16 (светлая кромка сверху-слева, тёмная снизу-справа, случайные преломления/тени); тень под карнизом #040B1E', floors: 'стрельчатые окна 11×20 (Страж — 15×30): lit #DFF6FF + свечение #8FE4FF + световой мазок по кладке, past #4F74A6, dark #0C1E3E; карниз corn с висячими кристаллами', guards: 'кольцо 11 px, зубцы-призмы 9×15 с остриём (тон по положению), машикули; угловые распорки-кристаллы', top: 'барабан 32 с окнами, венец из 9 призм (середина выше), шпиль 232 из трёх граней с курсами огранки и светящейся сердцевиной, навершие-кристалл на игле, сияние r 36 / 92', pal: 'небо #070C1A→#0E1A33→#050812, акцент #9FE6FF, сияние на небе едва заметное (#4FE3B0/#7FD4FF .07)' },
 };
 function specHtml() {
   const cols = ['Лига', 'Архетип', 'Геометрия', 'Материал и свет', 'Этажи и окна', 'Стражи', 'Навершие', 'Палитра'];

diff --git a/docs/work/tasks/2026-10-13-spire-league-towers-03.md b/docs/work/tasks/2026-10-13-spire-league-towers-03.md
@@ -1,0 +1,38 @@
+# Task packet: сверка свежих кадров по пересъёмкам, обновление сводки и дефектов кода
+
+Governance-ID: TG-F32D67F910B6
+Status: In progress
+Owner: сессия «3 · Макеты» по поручению координатора
+Related epic/enabler: непрерывная сверка паритета (RELEASE_PLAN_2026-10-11.md)
+
+> Круг 2 (вердикт владельца 13.10): Гранит и Оникс приняты, Алмаз — переделать в настоящее здание из хрусталя (гранёная кладка, ярусы, окна со свечением изнутри, контрфорсы, кристаллический шпиль в архитектуре, тёмно-синие тени и холодные блики); затем остальные 9 партиями по 3.
+
+## Outcome
+
+По мере прихода пересъёмок Сверки выносятся вердикты (реестр по id), подтверждённые дефекты кода пишутся в R1_CODE_DEFECTS_FROM_PARITY.md со статусом «подтверждено», образцы-кадры, нарисованные с приложения (cards-v2 №54–72), приводятся в соответствие кадрам, сводка утреннего листа обновляется.
+
+## Scope
+
+In scope: registries/visual_parity.json (строки по id), docs/phraseman-2.0/R1_CODE_DEFECTS_FROM_PARITY.md, docs/design/v2-app/cards-v2.html (только новые кадры в конце), утренний лист OWNER_MORNING_MOCKUPS_A.*.
+
+Out of scope: код приложения, утверждённые кадры cards-v2 №1–53, страницы под замком.
+
+## Architecture
+
+No architecture change: образцы и документация.
+
+## Security and privacy
+
+Данных пользователей нет.
+
+## Technical debt
+
+Contain: дефекты кода — координатору списком.
+
+## Verification
+
+Число строк реестра прежнее (1093); новые кадры cards-v2 открываются в браузере; гейт visual_parity_gate считает.
+
+## Rollback
+
+Откат коммита.
